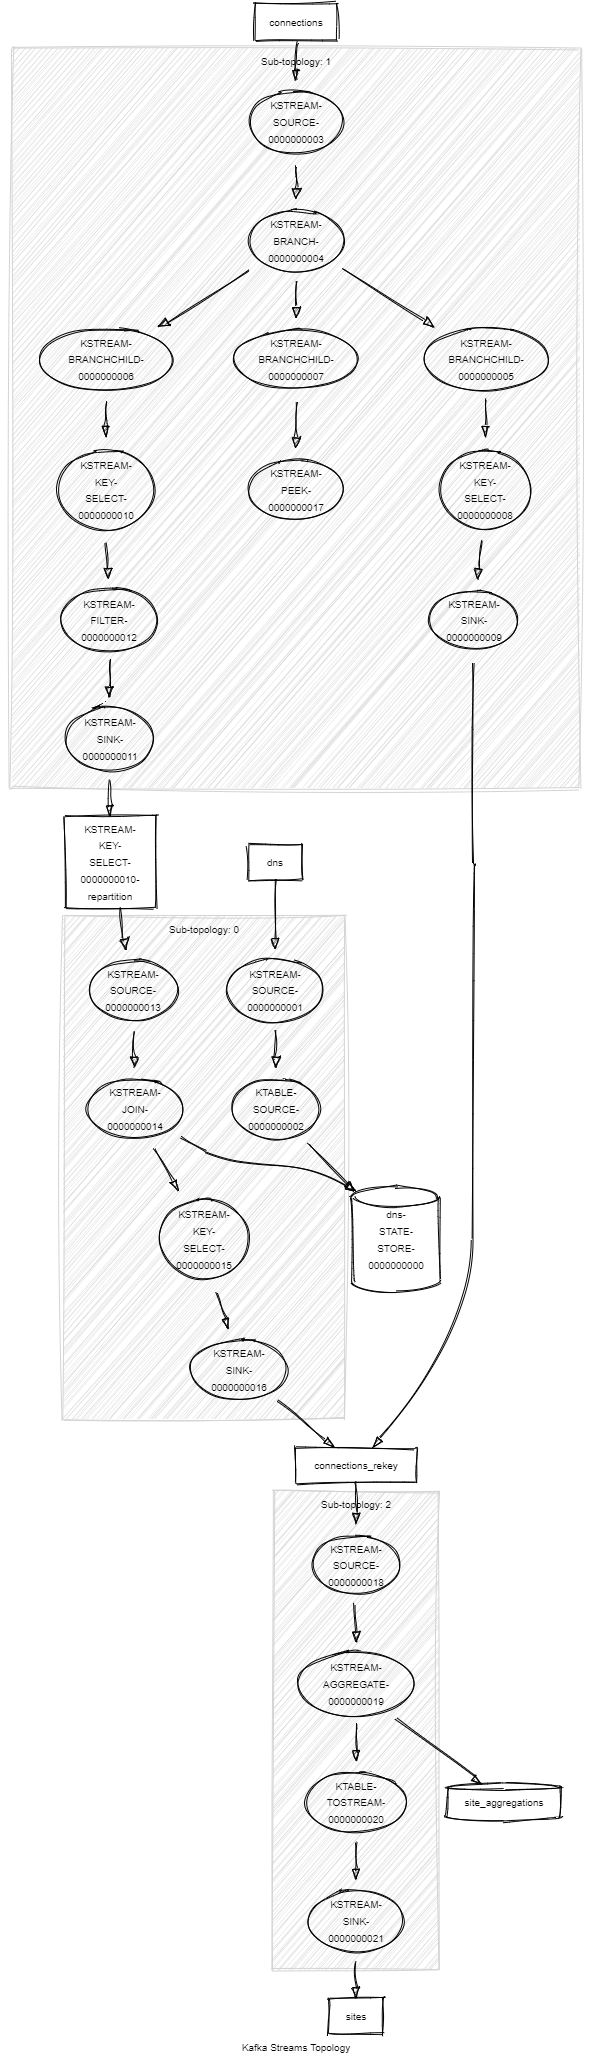
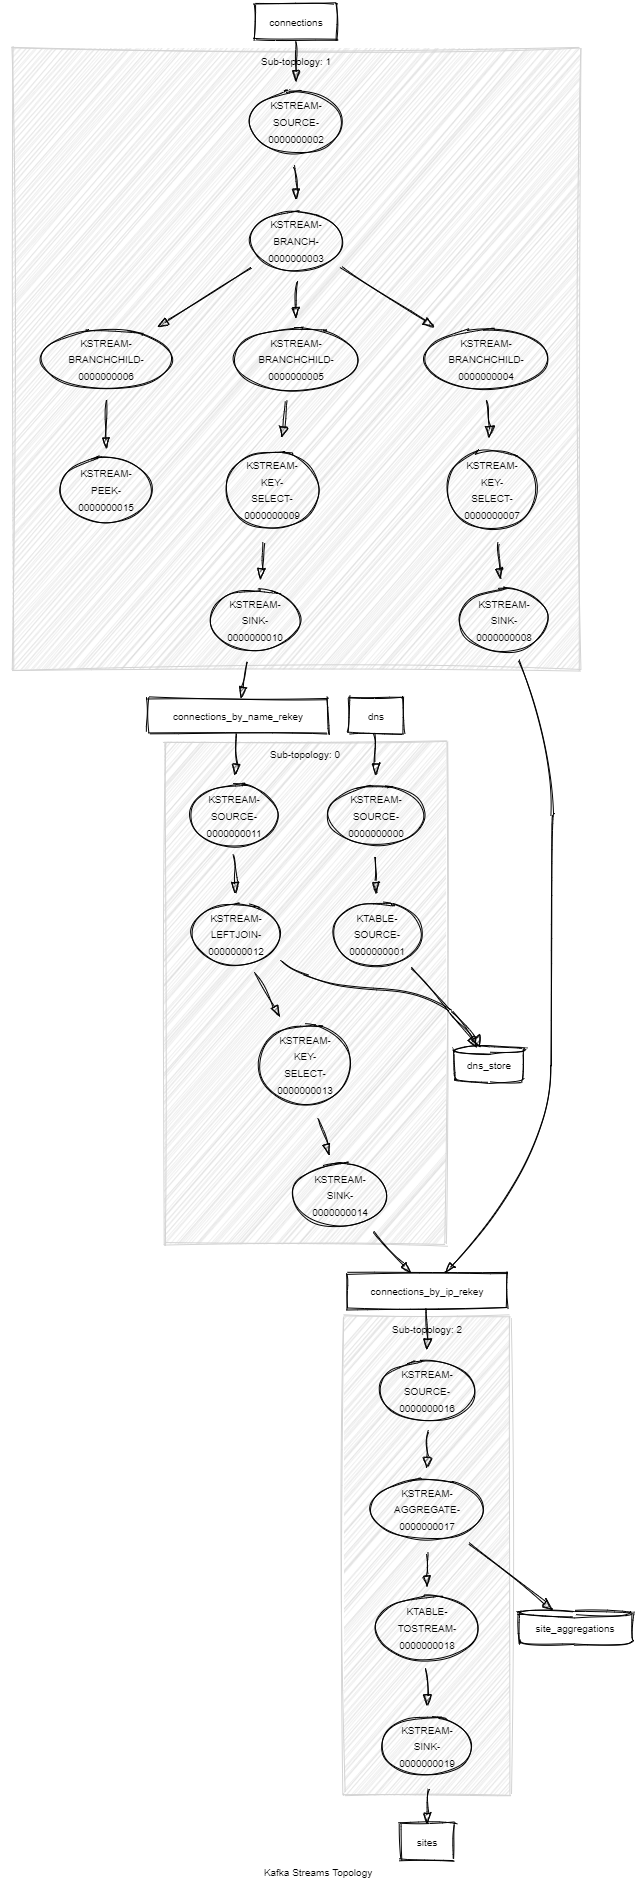
Update topology to remove all generated topic/store names

diff --git a/src/main/kotlin/com/adrienben/demo/kstreamconnections/Config.kt b/src/main/kotlin/com/adrienben/demo/kstreamconnections/Config.kt
@@ -5,6 +5,7 @@ import com.fasterxml.jackson.databind.DeserializationFeature
 import com.fasterxml.jackson.databind.ObjectMapper
 import com.fasterxml.jackson.databind.SerializationFeature
 import com.fasterxml.jackson.datatype.jsr310.JavaTimeModule
+import org.apache.kafka.common.serialization.Serde
 import org.apache.kafka.common.serialization.Serdes
 import org.apache.kafka.streams.StreamsBuilder
 import org.apache.kafka.streams.kstream.*
@@ -19,7 +20,9 @@ import org.springframework.kafka.support.serializer.JsonSerializer
 
 internal const val DNS_TOPIC = "dns"
 internal const val CONNECTIONS_TOPIC = "connections"
-internal const val CONNECTIONS_REKEY_TOPIC = "connections_rekey"
+internal const val CONNECTIONS_BY_IP_REKEY_TOPIC = "connections_by_ip_rekey"
+internal const val CONNECTIONS_BY_NAME_REKEY_TOPIC = "connections_by_name_rekey"
+internal const val DNS_STORE = "dns_store"
 internal const val SITES_AGGREGATIONS_STORE = "site_aggregations"
 internal const val SITES_TOPIC = "sites"
 
@@ -36,7 +39,10 @@ class StreamConfig @Autowired constructor(
 
     @Bean
     fun kStream(streamBuilder: StreamsBuilder): KStream<String, Server> {
-        val dnsTable = streamBuilder.table<String, String>(DNS_TOPIC, Consumed.with(stringSerde, stringSerde))
+        val dnsTable = streamBuilder.table<String, String>(
+                DNS_TOPIC,
+                Consumed.with(stringSerde, stringSerde),
+                materializedAsPersistentStore(DNS_STORE, stringSerde, stringSerde))
 
         val connections = streamBuilder
                 .stream<String, Connection>(CONNECTIONS_TOPIC, Consumed.with(stringSerde, connectionSerde))
@@ -49,25 +55,26 @@ class StreamConfig @Autowired constructor(
         // Connection with an ip
         connections[0]
                 .selectKey { _, v -> v.serverIp }
-                .to(CONNECTIONS_REKEY_TOPIC, Produced.with(stringSerde, connectionSerde))
+                .to(CONNECTIONS_BY_IP_REKEY_TOPIC, Produced.with(stringSerde, connectionSerde))
 
         // Connection with no Ip but a name. Ip must be resolved.
         connections[1]
                 .selectKey { _, v -> v.serverName }
-                .join(
+                .through(CONNECTIONS_BY_NAME_REKEY_TOPIC, Produced.with(stringSerde, connectionSerde))
+                .leftJoin(
                         dnsTable,
                         { c, mapping -> c.apply { this.serverIp = mapping } },
                         Joined.with(stringSerde, connectionSerde, stringSerde)
                 )
                 .selectKey { _, v -> v.serverIp }
-                .to(CONNECTIONS_REKEY_TOPIC, Produced.with(stringSerde, connectionSerde))
+                .to(CONNECTIONS_BY_IP_REKEY_TOPIC, Produced.with(stringSerde, connectionSerde))
 
         // Invalid connections (no ip nor name)
         connections[2]
                 .peek { k, v -> logger.error("Received invalid connections: $k - $v") }
 
         return streamBuilder
-                .stream<String, Connection>(CONNECTIONS_REKEY_TOPIC, Consumed.with(stringSerde, connectionSerde))
+                .stream<String, Connection>(CONNECTIONS_BY_IP_REKEY_TOPIC, Consumed.with(stringSerde, connectionSerde))
                 .groupByKey()
                 .aggregate(
                         { Server() },
@@ -77,9 +84,7 @@ class StreamConfig @Autowired constructor(
                                 this.sourceIps.add(ConnectionEvent(c.sourceIp))
                             }
                         },
-                        Materialized.`as`<String, Server>(Stores.persistentKeyValueStore(SITES_AGGREGATIONS_STORE))
-                                .withKeySerde(stringSerde)
-                                .withValueSerde(serverSerde)
+                        materializedAsPersistentStore(SITES_AGGREGATIONS_STORE, stringSerde, serverSerde)
                 )
                 .toStream()
                 .apply { this.to(SITES_TOPIC, Produced.with(stringSerde, serverSerde)) }
@@ -90,6 +95,11 @@ class StreamConfig @Autowired constructor(
      */
     private fun <T> jsonSerde(clazz: Class<T>) =
             Serdes.serdeFrom(JsonSerializer(mapper), JsonDeserializer(clazz, mapper, false))
+
+    private fun <K, V> materializedAsPersistentStore(storeName: String, keySerde: Serde<K>, valueSerde: Serde<V>) =
+            Materialized.`as`<K, V>(Stores.persistentKeyValueStore(storeName))
+                    .withKeySerde(keySerde)
+                    .withValueSerde(valueSerde)
 }
 
 /**

diff --git a/src/test/kotlin/com/adrienben/demo/kstreamconnections/AppTests.kt b/src/test/kotlin/com/adrienben/demo/kstreamconnections/AppTests.kt
@@ -20,7 +20,10 @@ import org.springframework.kafka.test.utils.KafkaTestUtils.*
 import java.time.Duration
 
 @SpringBootTest
-@EmbeddedKafka(topics = [DNS_TOPIC, CONNECTIONS_TOPIC, CONNECTIONS_REKEY_TOPIC, SITES_TOPIC], ports = [9092])
+@EmbeddedKafka(
+        topics = [DNS_TOPIC, CONNECTIONS_TOPIC, CONNECTIONS_BY_IP_REKEY_TOPIC, CONNECTIONS_BY_NAME_REKEY_TOPIC, SITES_TOPIC],
+        ports = [9092]
+)
 class AppTests @Autowired constructor(
         private val embeddedKafka: EmbeddedKafkaBroker,
         private val mapper: ObjectMapper

diff --git a/README.md b/README.md
@@ -64,14 +64,14 @@ These will just be logged as errors.
 
 - The connections by ip
 
-These will by re-keyed so the key of the messages will now be the server id and sent to the `connections_rekey`.
+These will by re-keyed so the key of the messages will now be the server id and sent to the `connections_by_ip_rekey`.
 
 - The connections by address
 
 These will be joined with the dns KTable so the server id will be resolved from its name.
 Then the messages will be treated just like the messages from the previous branch (re-key + push).
 
-Then all connection messages from `connections_rekey` will be grouped by key and aggregated into a message containing 
+Then all connection messages from `connections_by_ip_rekey` will be grouped by key and aggregated into a message containing 
 the server ip and all connection events.
 
 ## Topology
